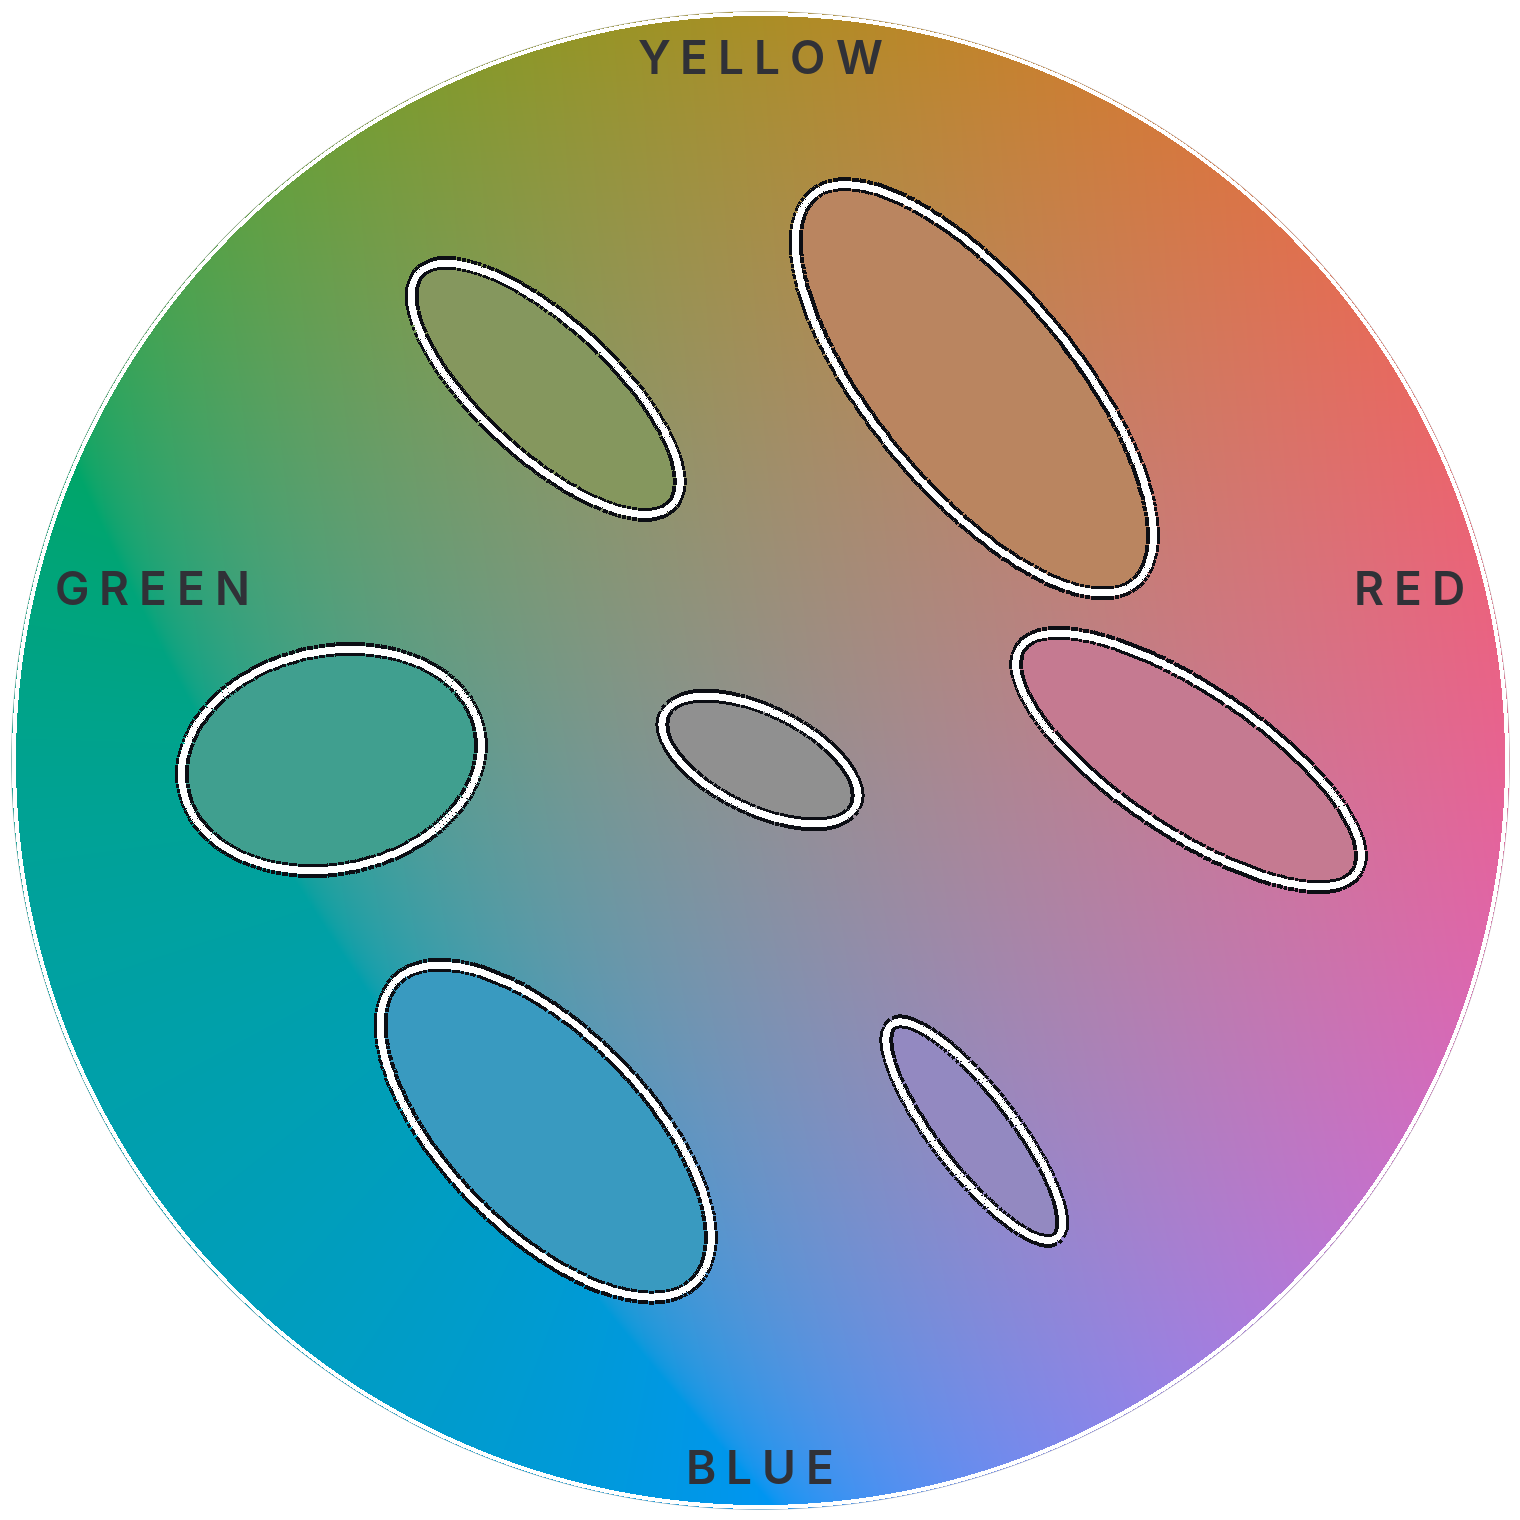
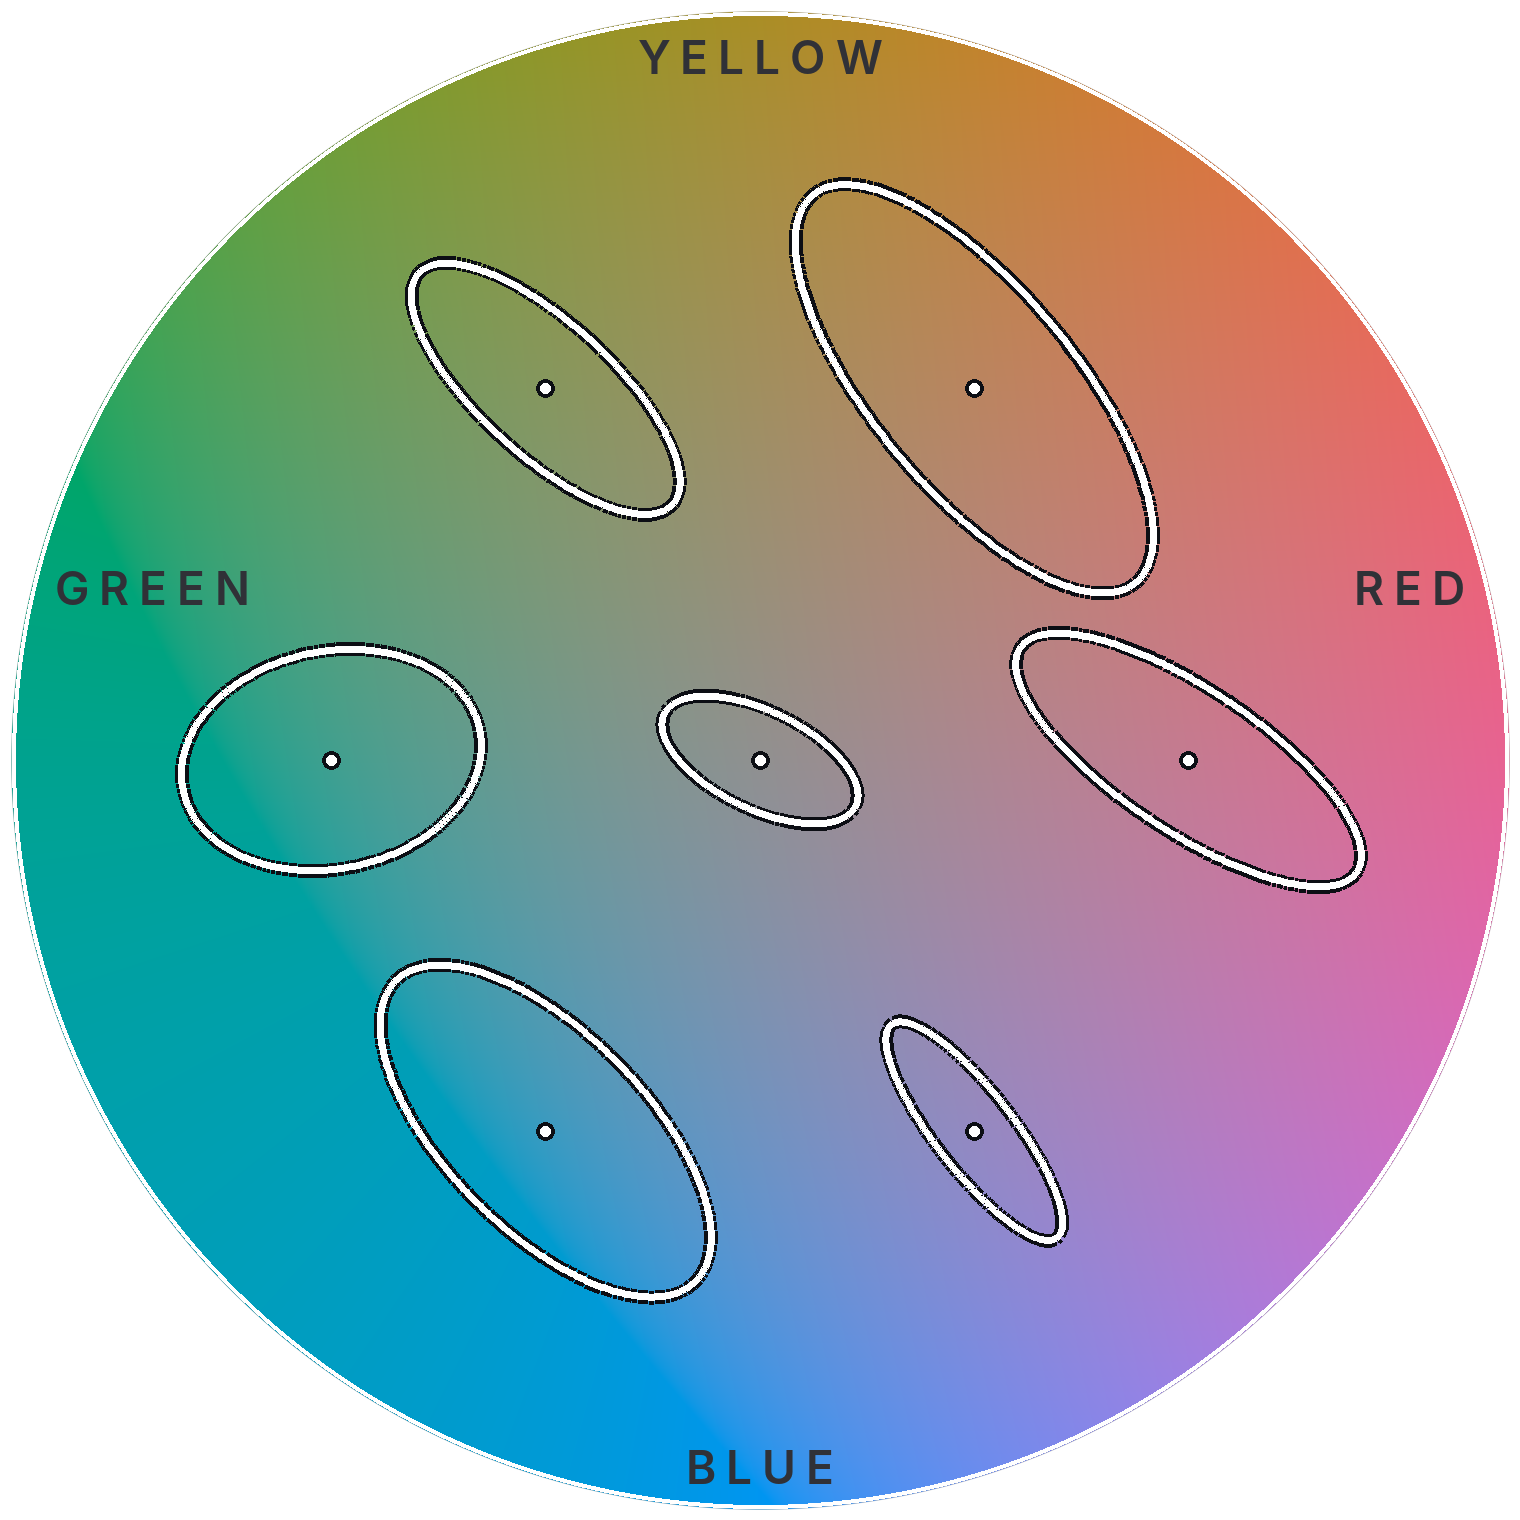
Vision post: maps show the real colors inside each zone (outline + center dot, no flat fill)
Regenerated with ellipse_figs.py's blog_map, fill removed and a center dot added; same
canvas, scale and outline style.

Claude-Session: https://claude.ai/code/session_013yQQmKffJVCZjdyG4SzuST

diff --git a/src/content/blog/mapping-my-own-color-vision.md b/src/content/blog/mapping-my-own-color-vision.md
@@ -105,7 +105,7 @@ The short version: **my brightness discrimination is normal; color discriminatio
 
 Let me start with brightness, because it explains a lot. My lightness threshold is dead normal - essentially identical to my volunteers. And that makes sense! Why? Most of what we use color for in daily life actually leans on brightness: reading text, judging shadows and edges, or tracking a basketball across a gym (I actually play about once a week, and can shoot just fine). So for a lot of everyday cases, nothing seems obviously wrong for me. It also explains the keycaps: when I learned to design by luminance, I was unknowingly designing around the one channel that works perfectly for me.
 
-I call the region of colors that look identical to me a **confusion zone**.[^zones] Everyone has them, but mine are much, much bigger. The maps below show all seven anchor points, each with its zone drawn around it. Each zone is filled with the color at its center, because to me, every color inside it is indistinguishable from that center. Also, mine all lean in the same direction - see how they point along the yellow-green ↔ magenta axis? The one exception is green: still huge, but rounder than the others and stretched toward the center like a normal one, instead of along my diagonal. I re-tested it just to be sure and it's real, I just don't know why.
+I call the region of colors that look identical to me a **confusion zone**.[^zones] Everyone has them, but mine are much, much bigger. The maps below show all seven anchor points (the dots), each with its zone outlined around it. To me, every color inside an outline looks the same as the color at its dot. Look how much color that is. Also, mine all lean in the same direction - see how they point along the yellow-green ↔ magenta axis? The one exception is green: still huge, but rounder than the others and stretched toward the center like a normal one, instead of along my diagonal. I re-tested it just to be sure and it's real, I just don't know why.
 
 [^zones]: Color scientists call these *discrimination ellipses*, or MacAdam ellipses, after David MacAdam's 1942 study that first mapped them for normal eyes. I use "confusion zone" because it pairs with the *confusion lines* of ordinary colorblindness, which come up below.
 
